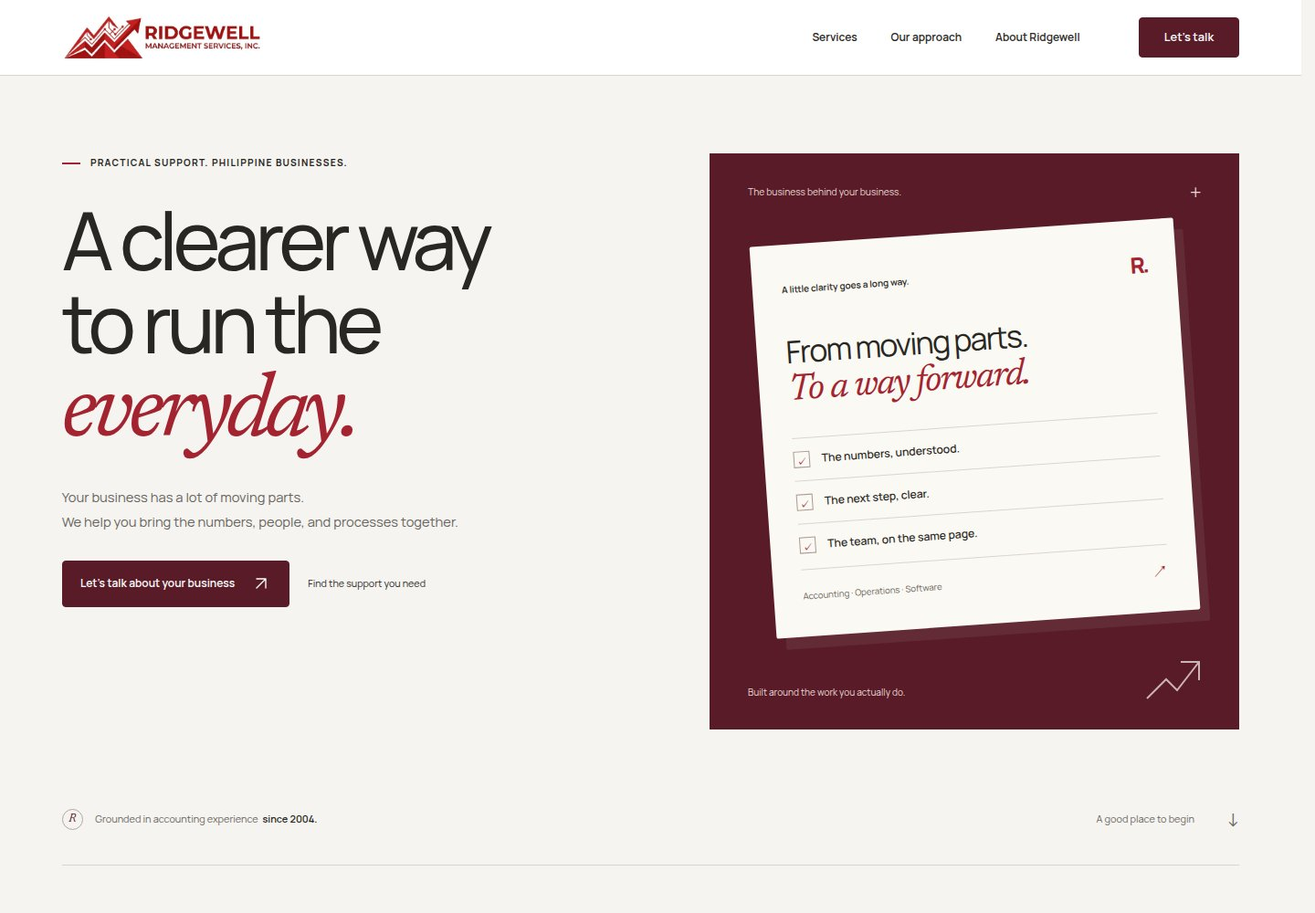
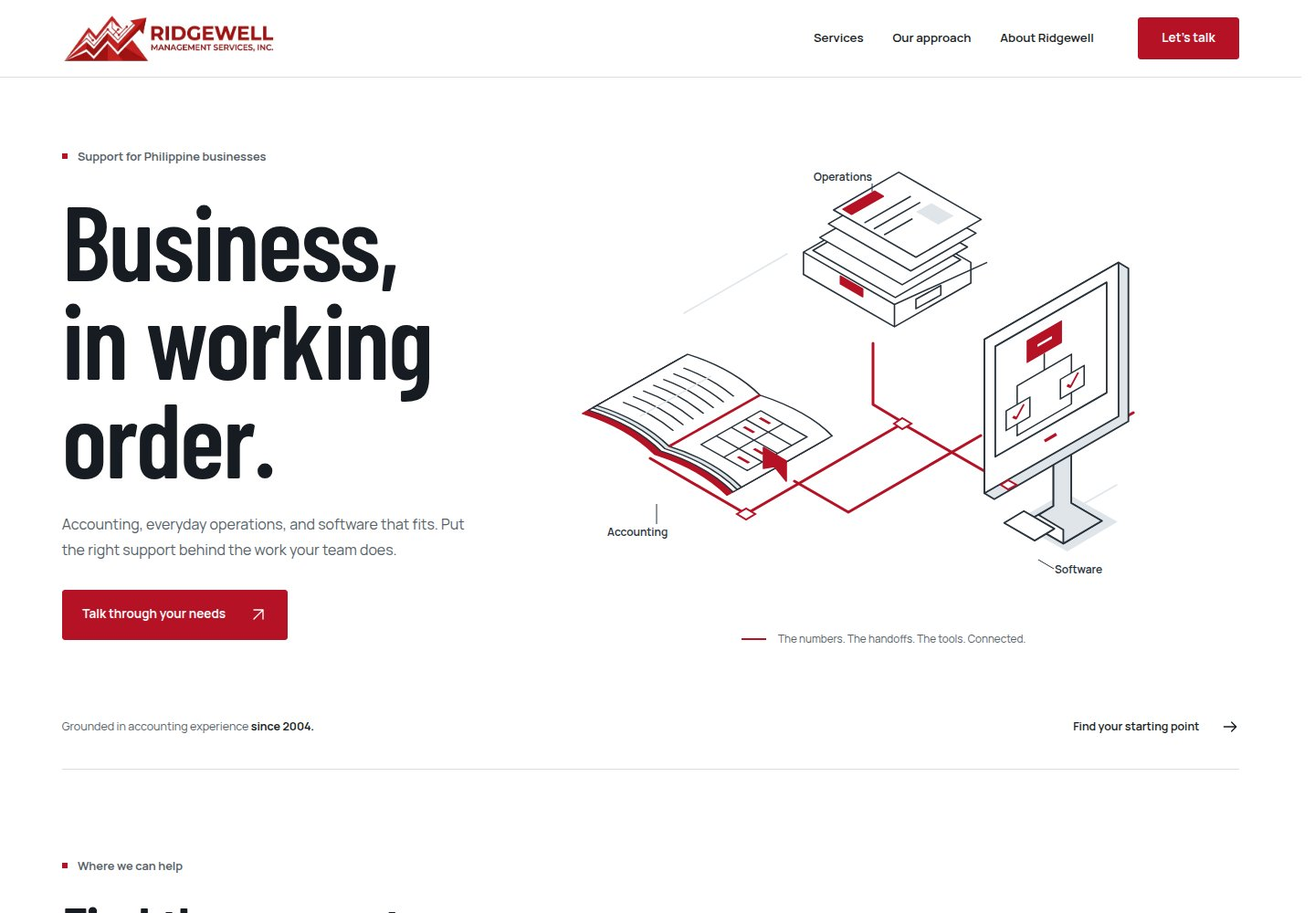
Document white vector direction and UI UX Pro Max review

diff --git a/docs/verification.md b/docs/verification.md
@@ -1,125 +1,105 @@
-# Verification and anti-slop delivery gate
+# Verification and design review
 
-Verified 16 September 2026. Anti-slop was applied throughout the redesign. The owner explicitly authorized the visual direction, implementation, public repository, checkpoint commits, and final push.
+Verified 17 September 2026 for the white/vector revision. The owner requested pure white surfaces and vector graphics after rejecting the earlier cream/serif direction. This report replaces the previous design review. Technical checks establish behavior and accessibility coverage; they do not establish the owner's aesthetic approval.
 
 ## Executed checks
 
-- PASS: `npm run test:unit`, 5 inquiry validation and encoding tests.
+- PASS: `npm run test:unit`, all 5 inquiry validation and encoding tests.
 - PASS: `npm run build`, TypeScript and Vite production build.
-- PASS: `npm test`, 25 browser tests passed; 1 intentionally skipped because the mobile-navigation test does not apply to the desktop project.
-- PASS: axe WCAG A/AA scans in initial, invalid-form, and prepared-draft states on desktop and mobile; zero reported violations.
-- PASS: widths 320, 390, 600, 768, 960, 1024, 1440, and 1920; no horizontal overflow and interactive targets at least 44px tall (fractional measurement tolerance below 1px).
-- PASS: 200% text resizing at 640px; reflow without horizontal overflow.
-- PASS: reduced-motion browser runs; transitions and smooth scrolling disabled by the preference.
-- PASS: production preview smoke test, service-to-inquiry handoff, locally served fonts and images, no runtime errors or third-party requests.
+- PASS: `npm test`, 25 browser tests passed; 1 intentional skip for the desktop project's mobile-only navigation case.
+- PASS: axe WCAG A/AA scans in initial, invalid-form, and prepared-draft states on desktop and mobile, with zero reported violations.
+- PASS: widths 320, 390, 600, 768, 960, 1024, 1440, and 1920; no horizontal overflow and controls at least 44px tall, allowing subpixel rounding.
+- PASS: additional production-render inspection at 375px; no horizontal overflow.
+- PASS: 200% text resizing at 320, 390, and 640px; reflow without horizontal overflow.
+- PASS: reduced-motion runs and landscape navigation, including the final menu action.
+- PASS: production preview loaded without runtime errors, failed resources, HTTP errors, or third-party requests. Fonts are served locally.
+- PASS: computed page canvas, header, and inquiry surface are white; transparent sections render over that white canvas.
+- PASS: all four service drawings and the contact section captured for visual inspection. Desktop and full mobile previews refreshed.
+- PASS: `git diff --check` and `npm audit --audit-level=moderate`; zero reported vulnerabilities.
 
-The browser tests use Chromium for desktop and mobile emulation. These results do not claim physical-device or Safari/Firefox certification. The external mail application is not launched and no test messages are sent: tests intercept those clicks and verify the encoded destination and body.
+These are Chromium desktop and mobile-emulation results, not physical-device or Safari/Firefox certification. External email actions are intercepted in tests; no messages are sent.
+
+## UI UX Pro Max review
+
+The skill was first applied during this revision after the owner asked whether it had been used. Its Quick Reference accessibility, touch, performance, layout, and typography guidance informed the review. Focused local searches covered responsive typography/text scaling and React form/focus behavior.
+
+The concrete refinement was increasing main service copy, service lists, process descriptions, FAQ answers, and input/draft values to 16px. Form labels, errors, and delivery guidance were also enlarged. The review checked meaningful SVG titles, keyboard-operated tabs, labels, preserved inquiry values, visible focus, 44px controls, reduced motion, reflow, and locally loaded fonts. Dataset suggestions did not replace the owner's white/vector direction or introduce a second design system.
 
 ## Recorded interaction review
 
-| Control                                | Observed result                                                                                             |
-| -------------------------------------- | ----------------------------------------------------------------------------------------------------------- |
-| Header and footer logo links           | Return to the home section.                                                                                 |
-| Services, approach, and about links    | Reach the matching section and update the fragment.                                                         |
-| Header and hero conversation actions   | Reach the inquiry section.                                                                                  |
-| Hero support and starting-point links  | Reach the service selector.                                                                                 |
-| All four service tabs                  | Update the associated service detail panel and selected state.                                              |
-| Service tab ArrowDown, Home, End       | Move focus and selection to the expected item.                                                              |
-| Each service inquiry action            | Reaches contact and preselects the corresponding service.                                                   |
-| About approach link                    | Reaches the approach section.                                                                               |
-| Approach contact link                  | Reaches the inquiry section.                                                                                |
-| Four FAQ disclosures                   | Open with Enter, expose the answer, and close with Space.                                                   |
-| Footer questions and back-to-top links | Reach questions and home.                                                                                   |
-| Mobile menu                            | Opens and closes; all five links navigate and close it.                                                     |
-| Mobile menu Escape                     | Closes the menu and restores focus to its trigger.                                                          |
-| Name, email, organization, message     | Accept input; labels and errors are programmatically associated.                                            |
-| Service dropdown                       | All seven published inquiry choices can be selected.                                                        |
-| Empty inquiry                          | Shows field-specific errors and focuses the first invalid field.                                            |
-| Valid inquiry                          | Shows a reviewable draft and focuses its heading; explicitly says nothing has been sent.                    |
-| Email-app action                       | Exposes a correctly encoded mailto link to the published company address; test intercepts external handoff. |
-| Direct email action                    | Exposes the published recipient; test intercepts external handoff.                                          |
-| Copy draft                             | Copies the complete recipient, subject, and body; announces success.                                        |
-| Copy pending                           | Shows Copying, aria-busy, and disabled state until completion.                                              |
-| Denied clipboard                       | Explains the failure and selects the draft for manual copying.                                              |
-| Edit inquiry                           | Restores editable fields without losing their values.                                                       |
-| Service selection after draft          | Retains entered values and uses the newly selected service in the next draft.                               |
-| Missing logo response                  | Accessible brand text and home link remain; main content still renders.                                     |
+| Control or state                        | Verified result                                                                               |
+| --------------------------------------- | --------------------------------------------------------------------------------------------- |
+| Header, footer, hero, and section links | Navigate to real document anchors and update the fragment.                                    |
+| All four service tabs                   | Update the labeled panel, selected state, and matching vector drawing.                        |
+| Tab arrows, Home, End                   | Move focus and selection.                                                                     |
+| Service inquiry action                  | Reaches contact and preselects the matching service.                                          |
+| FAQ disclosures                         | Open with Enter and close with Space.                                                         |
+| Mobile menu                             | Opens, closes after navigation, fits short landscape screens, and scrolls to the last action. |
+| Mobile Escape                           | Closes the menu and restores focus to its trigger.                                            |
+| Inquiry inputs                          | Accept values with associated labels and field errors.                                        |
+| Seven inquiry choices                   | Can each be selected.                                                                         |
+| Blank or invalid inquiry                | Shows specific errors and focuses the first invalid field.                                    |
+| Valid inquiry                           | Prepares a reviewable draft, focuses its heading, and says nothing has been sent.             |
+| Email actions                           | Use the published recipient and correctly encoded draft content.                              |
+| Copy pending/success                    | Disables while pending, exposes busy state, and announces completion.                         |
+| Clipboard denial                        | Explains the failure and selects the draft for manual copying.                                |
+| Edit inquiry                            | Preserves input values.                                                                       |
+| Service change after draft              | Preserves values and uses the new service in the next draft.                                  |
+| Stale clipboard completion              | Cannot mark a revised draft as copied.                                                        |
+| Missing logo                            | Accessible brand identity and home link remain.                                               |
 
-## Hard gate
+## Anti-slop hard gate
 
-- R-02 PASS: source scan found no em dashes in application copy.
-- R-03 PASS: viewport and 200% text-size tests pass; mobile header and stacked content reviewed in screenshots.
-- R-17 PASS: the only historical date is accounting experience since 2004, documented in the original homepage source snapshot.
-- R-18 PASS: no testimonials, invented client identities, or stock team portraits.
-- R-23 PASS: owner granted design authority; original logo reused; examples are labeled; no fictional identity assets.
-- R-24 PASS: all navigation destinations exist and browser click-through reaches them.
-- R-25 PASS: axe contrast scans and the plugin's contrast checker pass applicable thresholds; key ratios recorded below.
-- R-26 PASS: every control has recorded behavior in the interaction table.
-- R-27 PASS: core content is bundled and does not fetch remote data; blank/invalid inquiry, prepared draft, clipboard pending/success/failure, and image failure are exercised.
-- R-28 PASS: questions are rewritten from Ridgewell's published FAQ, with source snapshot retained.
-- R-32 PASS: semantic controls, tab keyboard handling, Escape navigation behavior, visible focus, and associated field errors verified.
-- R-33 PASS: features are authored directly in TSX/CSS, with no source-rewriting helper scripts.
-- R-34 PASS: one intentional corporate theme; no incomplete theme toggle.
-- R-35 PASS: production build, production browser smoke test, and element-by-element interaction record above.
-- R-36 PASS: no invented performance, security, compliance, client, price, or response-time claims.
-- R-37 PASS: `DESIGN.md` records the authored direction and explicit dials before implementation; final palette reconciled to the real logo.
-- R-38 PASS: company facts and services trace to saved public source responses; operational diagrams explicitly identify themselves as examples.
+| Rule       | Result and evidence                                                                                                            |
+| ---------- | ------------------------------------------------------------------------------------------------------------------------------ |
+| R-02       | PASS: no em dashes in application copy.                                                                                        |
+| R-03       | PASS: responsive, landscape, and enlarged-text checks above.                                                                   |
+| R-17, R-18 | PASS: accounting experience since 2004 is sourced; no fabricated metrics, clients, testimonials, or team portraits.            |
+| R-23       | PASS: owner authorized the redesign; original brand asset retained. New vectors are conceptual service illustrations.          |
+| R-24, R-26 | PASS: visible controls have real destinations or tested behavior, recorded above.                                              |
+| R-25       | PASS: applicable text and control-boundary contrast thresholds, with measured pairs below.                                     |
+| R-27       | PASS: invalid, draft, copy pending/success/denial, stale completion, and missing-image states tested. Core content is bundled. |
+| R-28       | PASS: FAQs derive from saved public source material.                                                                           |
+| R-32       | PASS: semantic controls, associated field errors, keyboard behavior, focus, and SVG titles.                                    |
+| R-33       | PASS: features authored directly in TSX/CSS; no source-rewriting implementation scripts.                                       |
+| R-34       | PASS: one deliberate light theme.                                                                                              |
+| R-35       | PASS: production build, browser suite, production smoke inspection, and interaction record.                                    |
+| R-36       | PASS: no unsupported performance, security, compliance, pricing, or response-time claims.                                      |
+| R-37       | PASS: revised owner direction and design dials are recorded in `DESIGN.md`.                                                    |
+| R-38       | PASS: facts trace to public source snapshots; examples are explicitly labeled.                                                 |
 
-## Purpose gate
+## Visual and craftsmanship review
 
-- R-01 PASS: burgundy/red comes from the original logo; no decorative gradients.
-- R-04 PASS: check marks signify checklist items; menu/close and disclosure marks identify real controls; no decorative icon library.
-- R-06 PASS: Manrope supports compact business copy; Newsreader italic adds restrained emphasis to human-oriented headings and the workflow note, as documented in `DESIGN.md`.
-- R-07 PASS: no decorative background grid or dot pattern; rules separate service items and process rows.
-- R-08 PASS: arrows signal section movement or external email handoff; plain navigation and other controls retain text labels.
-- R-09 PASS: no fabricated badges or status indicators.
-- R-10 PASS: no glassmorphism or backdrop blur.
-- R-12 PASS: the operational paper illustration has a shallow offset to separate paper from its burgundy surface; the mobile menu shadow identifies the overlay.
-- R-13 PASS: no glow effects.
-- R-14 PASS: services use one indexed detail panel, with a labeled example; no repeated feature-card grid.
-- R-19 PASS: motion is limited to control feedback and service-content transition; reduced-motion support verified.
-- R-22 PASS: the hero is a code-native operational note related to Ridgewell's accounting/workflow offering, not a stock illustration or purported product screenshot.
+| Rules                  | Implementation evidence                                                                                                                        |
+| ---------------------- | ---------------------------------------------------------------------------------------------------------------------------------------------- |
+| R-01, R-29             | White, charcoal, Ridgewell red, and cool gray; no cream or warm tinted surfaces.                                                               |
+| R-04, R-08, R-09       | Arrows indicate navigation or conceptual routing; check marks identify checklist items; no invented badges.                                    |
+| R-06                   | Barlow Condensed display headings and Manrope body copy; Newsreader removed.                                                                   |
+| R-07, R-10, R-12, R-13 | No background grid, gradients, glass, shadows, or glow. Thin rules separate real content groups.                                               |
+| R-14                   | Services use one indexed selector and contextual illustration, without a repeated promotional card grid.                                       |
+| R-19                   | Motion is limited to control feedback, with reduced-motion support.                                                                            |
+| R-22                   | Editable SVG ledgers, records, routing, monitor, and inbox drawings depict the actual service categories.                                      |
+| R-05, R-11             | Split introduction, service index, illustrated accounting section, sequential process, FAQ, and inquiry vary composition. Small control radii. |
+| R-15, R-16             | Direct action labels and plain service copy; no prohibited marketing buzzwords.                                                                |
+| R-20, R-21, R-30, R-31 | Original logo and accounting/operations concepts anchor the authored white presentation. Rationale is recorded in `DESIGN.md`.                 |
+| C-1 through C-5        | Written visual rationale, meaningful content, behavior coverage, responsive/accessibility checks, and source provenance.                       |
 
-## Liveliness gate
-
-- PASS: ENERGY 2 / RHYTHM 3 / MOTION 1 recorded in the design direction.
-- PASS: desktop and mobile screenshots show the declared restrained energy, varied section compositions, and limited motion.
-- PASS: hero headline, service detail, founding year, process heading, FAQ, and inquiry each provide a section focal point.
-- PASS: whitespace separates subject changes while examples and controls stay grouped.
-- PASS: restrained red accents point to important actions and headline emphasis; burgundy provides the brand field.
-- PASS: accounting-paper treatment and the original ridge mark tie the visual identity to the actual business.
-- PASS: design read was declared before generation; palette was corrected after viewing the original logo.
-
-## Craftsmanship and quality locks
-
-- C-1 PASS: palette, type, layout, spacing, controls, illustration, and motion have written purpose in `DESIGN.md`.
-- C-2 PASS: complete interaction table above; no placeholder controls.
-- C-3 PASS: every section explains a published service, company foundation, engagement approach, common question, or contact action.
-- C-4 PASS: responsive, resized text, keyboard, validation, copy errors, reduced motion, and missing-image behavior verified.
-- C-5 PASS: real-source audit and saved public content; no fabricated proof.
-- R-05 PASS: split introduction, indexed services, asymmetric heritage, sequential engagement process, FAQ rows, and split inquiry create varied composition. Process numbering conveys real sequence.
-- R-11 PASS: small control radii, flat content regions, and a paper illustration; no pill-based design system.
-- R-15 PASS: action labels identify their purpose: prepare inquiry, open email app, copy draft, talk about this service.
-- R-16 PASS: copy scan found no prohibited AI marketing buzzwords.
-- R-20 PASS: original red ridge logo, accounting-paper visual, operational examples, and founding reference establish business-specific identity.
-- R-21 PASS: light corporate surfaces and a burgundy brand section are an intentional fixed presentation.
-- R-29 PASS: burgundy/red, paper, white, and neutral ink form a limited palette.
-- R-30 PASS: layout and identity were built for Ridgewell; no named product was cloned.
-- R-31 PASS: rationale is documented for every major visual choice.
+ENERGY 2 / RHYTHM 3 / MOTION 1 remains the recorded intent. Each section has a content focal point, with whitespace separating topics. Red accents connect the drawn objects and identify primary actions. Screenshots record the actual result for owner review; this is not a declaration that an anti-slop checklist can certify visual taste.
 
 ## Measured color pairs
 
-| Pair                                           |  Ratio | Applicable result                         |
-| ---------------------------------------------- | -----: | ----------------------------------------- |
-| Muted text `#696560` on soft surface `#eee9e3` | 4.79:1 | PASS, normal text                         |
-| Red `#a32430` on paper `#f5f4f0`               | 6.69:1 | PASS, normal text                         |
-| Light copy `#ebd9d7` on burgundy `#581b27`     | 9.64:1 | PASS, normal text                         |
-| Input border `#94867e` on white                | 3.52:1 | PASS, non-text boundary (3:1 requirement) |
+| Pair                                     |  Ratio | Applicable result                                        |
+| ---------------------------------------- | -----: | -------------------------------------------------------- |
+| Secondary text `#565f68` on white        | 6.50:1 | PASS, normal text                                        |
+| Red `#b51226` on white, and white on red | 6.82:1 | PASS, normal text                                        |
+| Input border `#7c858d` on white          | 3.75:1 | PASS, non-text boundary; this token is not used for text |
+
+Measured with the anti-slop human skill's contrast checker. Pale gray is limited to decorative object depth and structural rules, with dark outlines retaining the illustration's shape.
 
 ## Delivery boundary
 
-This is an independently deployable React SPA. The production domain, original website, and original inquiry API are untouched. The inquiry flow is an explicit email draft handoff, not server-delivered messaging. Public repository publication is authorized; the build artifact can be deployed to a static host.
+The repository contains a deployable React SPA. The production domain, original website, and original inquiry API are unchanged. Inquiry is an explicit email-draft handoff. The original supplied logo remains raster; all new supporting illustrations are editable vectors in `src/components/VectorArt.tsx`.
 
 ## Independent review follow-up
 
-The reviewer reproduced two edge cases, both fixed and covered by regression tests: the navigation now scrolls within short landscape viewports, and an earlier clipboard completion cannot mark a revised draft as copied. The reviewer reran both reproductions and confirmed the fixes. The production smoke test also verified the skip link, locally served favicon, and absence of console errors, failed resources, or third-party requests.
+The review found enlarged-text overflow at narrow phone widths caused by intrinsic text widths in grid children. Allowing emergency word wrapping and constraining inline action widths fixed the reproduced case. Regression coverage now checks 200% root text at 320, 390, and 640px. The original normal-size breakpoint and accessibility checks also pass. SVG viewboxes contain their artwork, and each meaningful illustration has an accessible title.

diff --git a/DESIGN.md b/DESIGN.md
@@ -16,7 +16,7 @@ Reading this as: a white business-services website for Philippine SME owners, us
 - Red is grounded in the original Ridgewell mark. It identifies the primary action and connects objects in the illustrations. Gray appears only as object depth, borders, and functional disabled states.
 - Barlow Condensed, weight 600, gives the headlines the compact character of a technical drawing title. Manrope remains the readable body face. No serif or italic headings.
 - Original, editable SVG artwork is the main visual material: an open ledger, organized files, handoff routes, a monitor showing a small process diagram, and an inquiry inbox. These are conceptual illustrations of published services, not product screenshots or results.
-- One large connected-work illustration anchors the opening. Smaller related drawings explain the selected service, accounting foundation, and inquiry. All use the same perspective, line weight, and red accents.
+- One large connected-work illustration anchors the opening. Smaller related drawings explain the selected service, accounting foundation, and inquiry. Physical objects use a shared isometric perspective; routing is a flat process diagram. Dark outlines and red accents connect the visual family.
 - The original full logo is retained as supplied, including its raster source. New supporting graphics are vectors; the logo is not redrawn or substituted.
 - The hero illustration sits directly on white. A shaped connection route echoes the direction of the ridge mark and physically connects accounting, operations, and software objects.
 - Sections use different useful compositions: split introduction with generous artwork, service index plus contextual drawing, accounting drawing beside the business foundation, process rows, question disclosures, and an inquiry form.
@@ -45,3 +45,7 @@ Reading this as: a white business-services website for Philippine SME owners, us
 - `src/content.ts`: verified service areas and questions.
 - `docs/source-audit.md`: public source provenance.
 - `docs/verification.md`: current behavior, accessibility, and anti-slop checks. Passing those checks is a technical result, not a substitute for the owner's visual judgment.
+
+## UI UX Pro Max review
+
+Applied during the white/vector revision, after the owner's explicit question about the skill. Its focused typography, reflow, accessibility, and React form guidance supports this existing direction. Main body copy and input values are at least 16px; form guidance was enlarged; illustrations have meaningful titles. Existing keyboard, focus, reduced-motion, validation, and mobile navigation contracts remain verified. `docs/verification.md` records the executed checks.

diff --git a/README.md b/README.md
@@ -2,7 +2,7 @@
 
 A React SPA redesign of [ridgewell.com.ph](https://ridgewell.com.ph) for Ridgewell Management Services, Inc.
 
-The original logo and published service information are retained. The redesign introduces a burgundy visual identity, responsive layouts, a keyboard-accessible service selector, practical FAQs, and an inquiry flow that prepares a reviewable email draft.
+The original logo and published service information are retained. The redesign uses a pure white canvas, charcoal typography, Ridgewell red, and original editable SVG illustrations of accounting, operations, and software. A keyboard-accessible service selector, practical FAQs, and a reviewable email-draft inquiry flow support the page.
 
 ![Ridgewell desktop preview](docs/preview-desktop.jpg)
 
@@ -42,7 +42,7 @@ The form validates locally and prepares an email addressed to the address publis
 ## Project guide
 
 - `src/content.ts`: services, questions, and published contact address.
-- `src/components/`: navigation, service selector, inquiry flow, and directional icon.
+- `src/components/`: navigation, service selector, inquiry flow, and original vector artwork in `VectorArt.tsx`.
 - `src/lib/inquiry.ts`: validation and email draft construction.
 - `src/styles.css`: brand tokens and responsive page styles.
 - `DESIGN.md`: design decisions and interaction contract.
